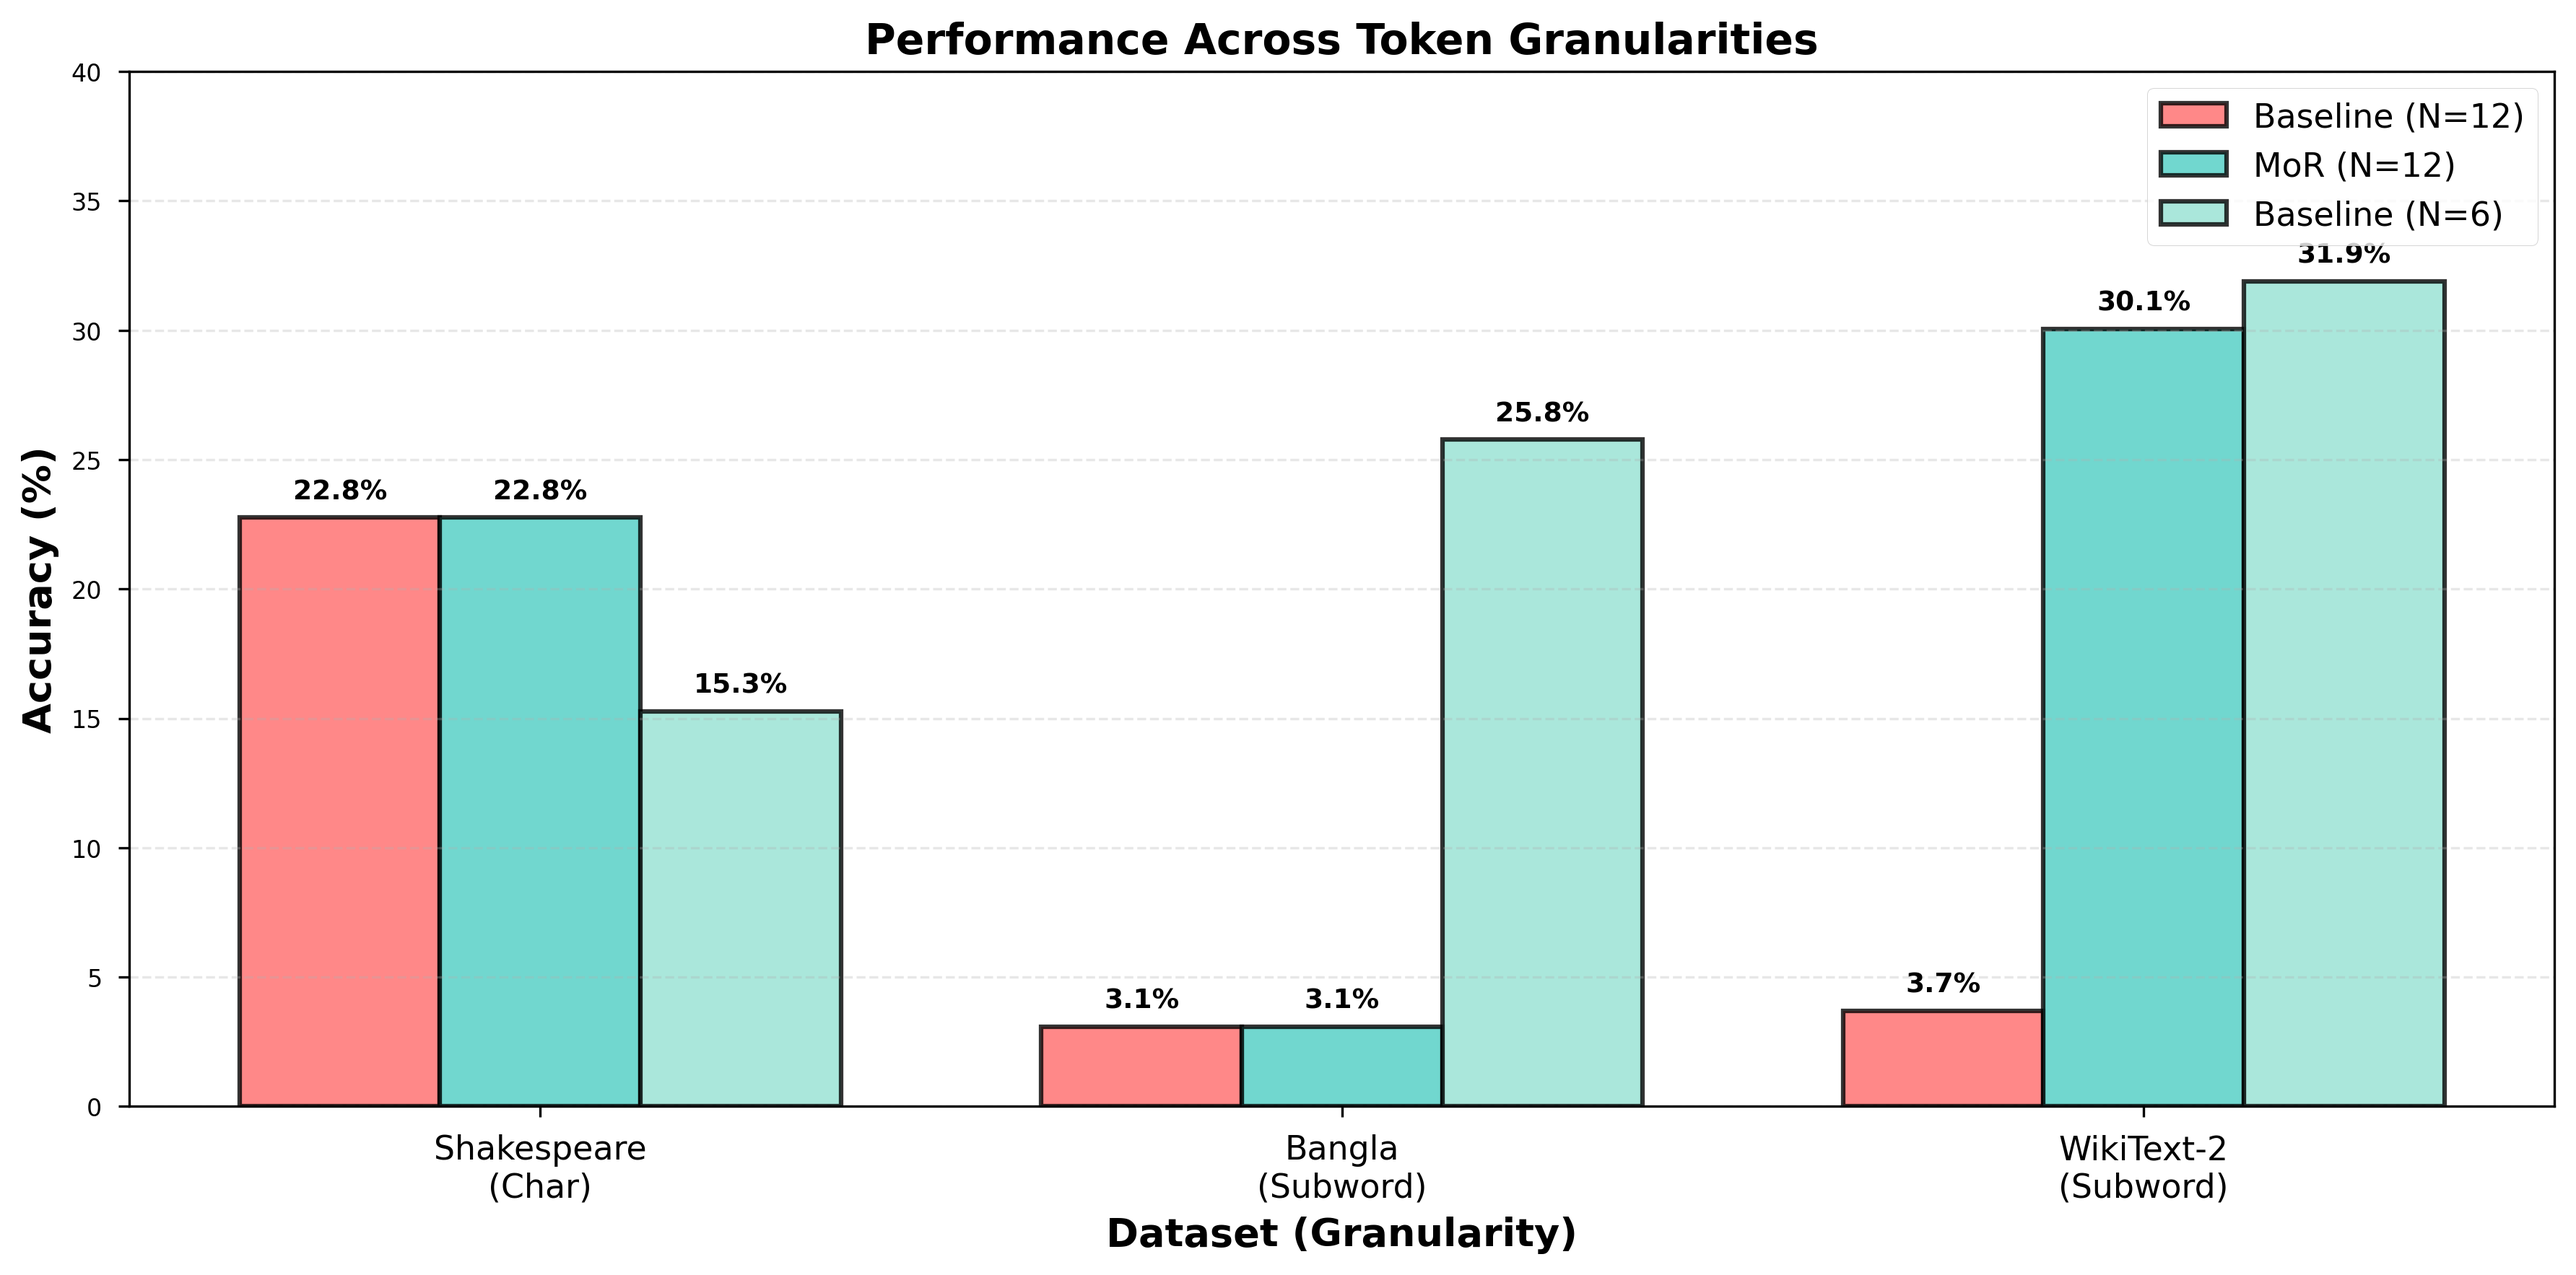
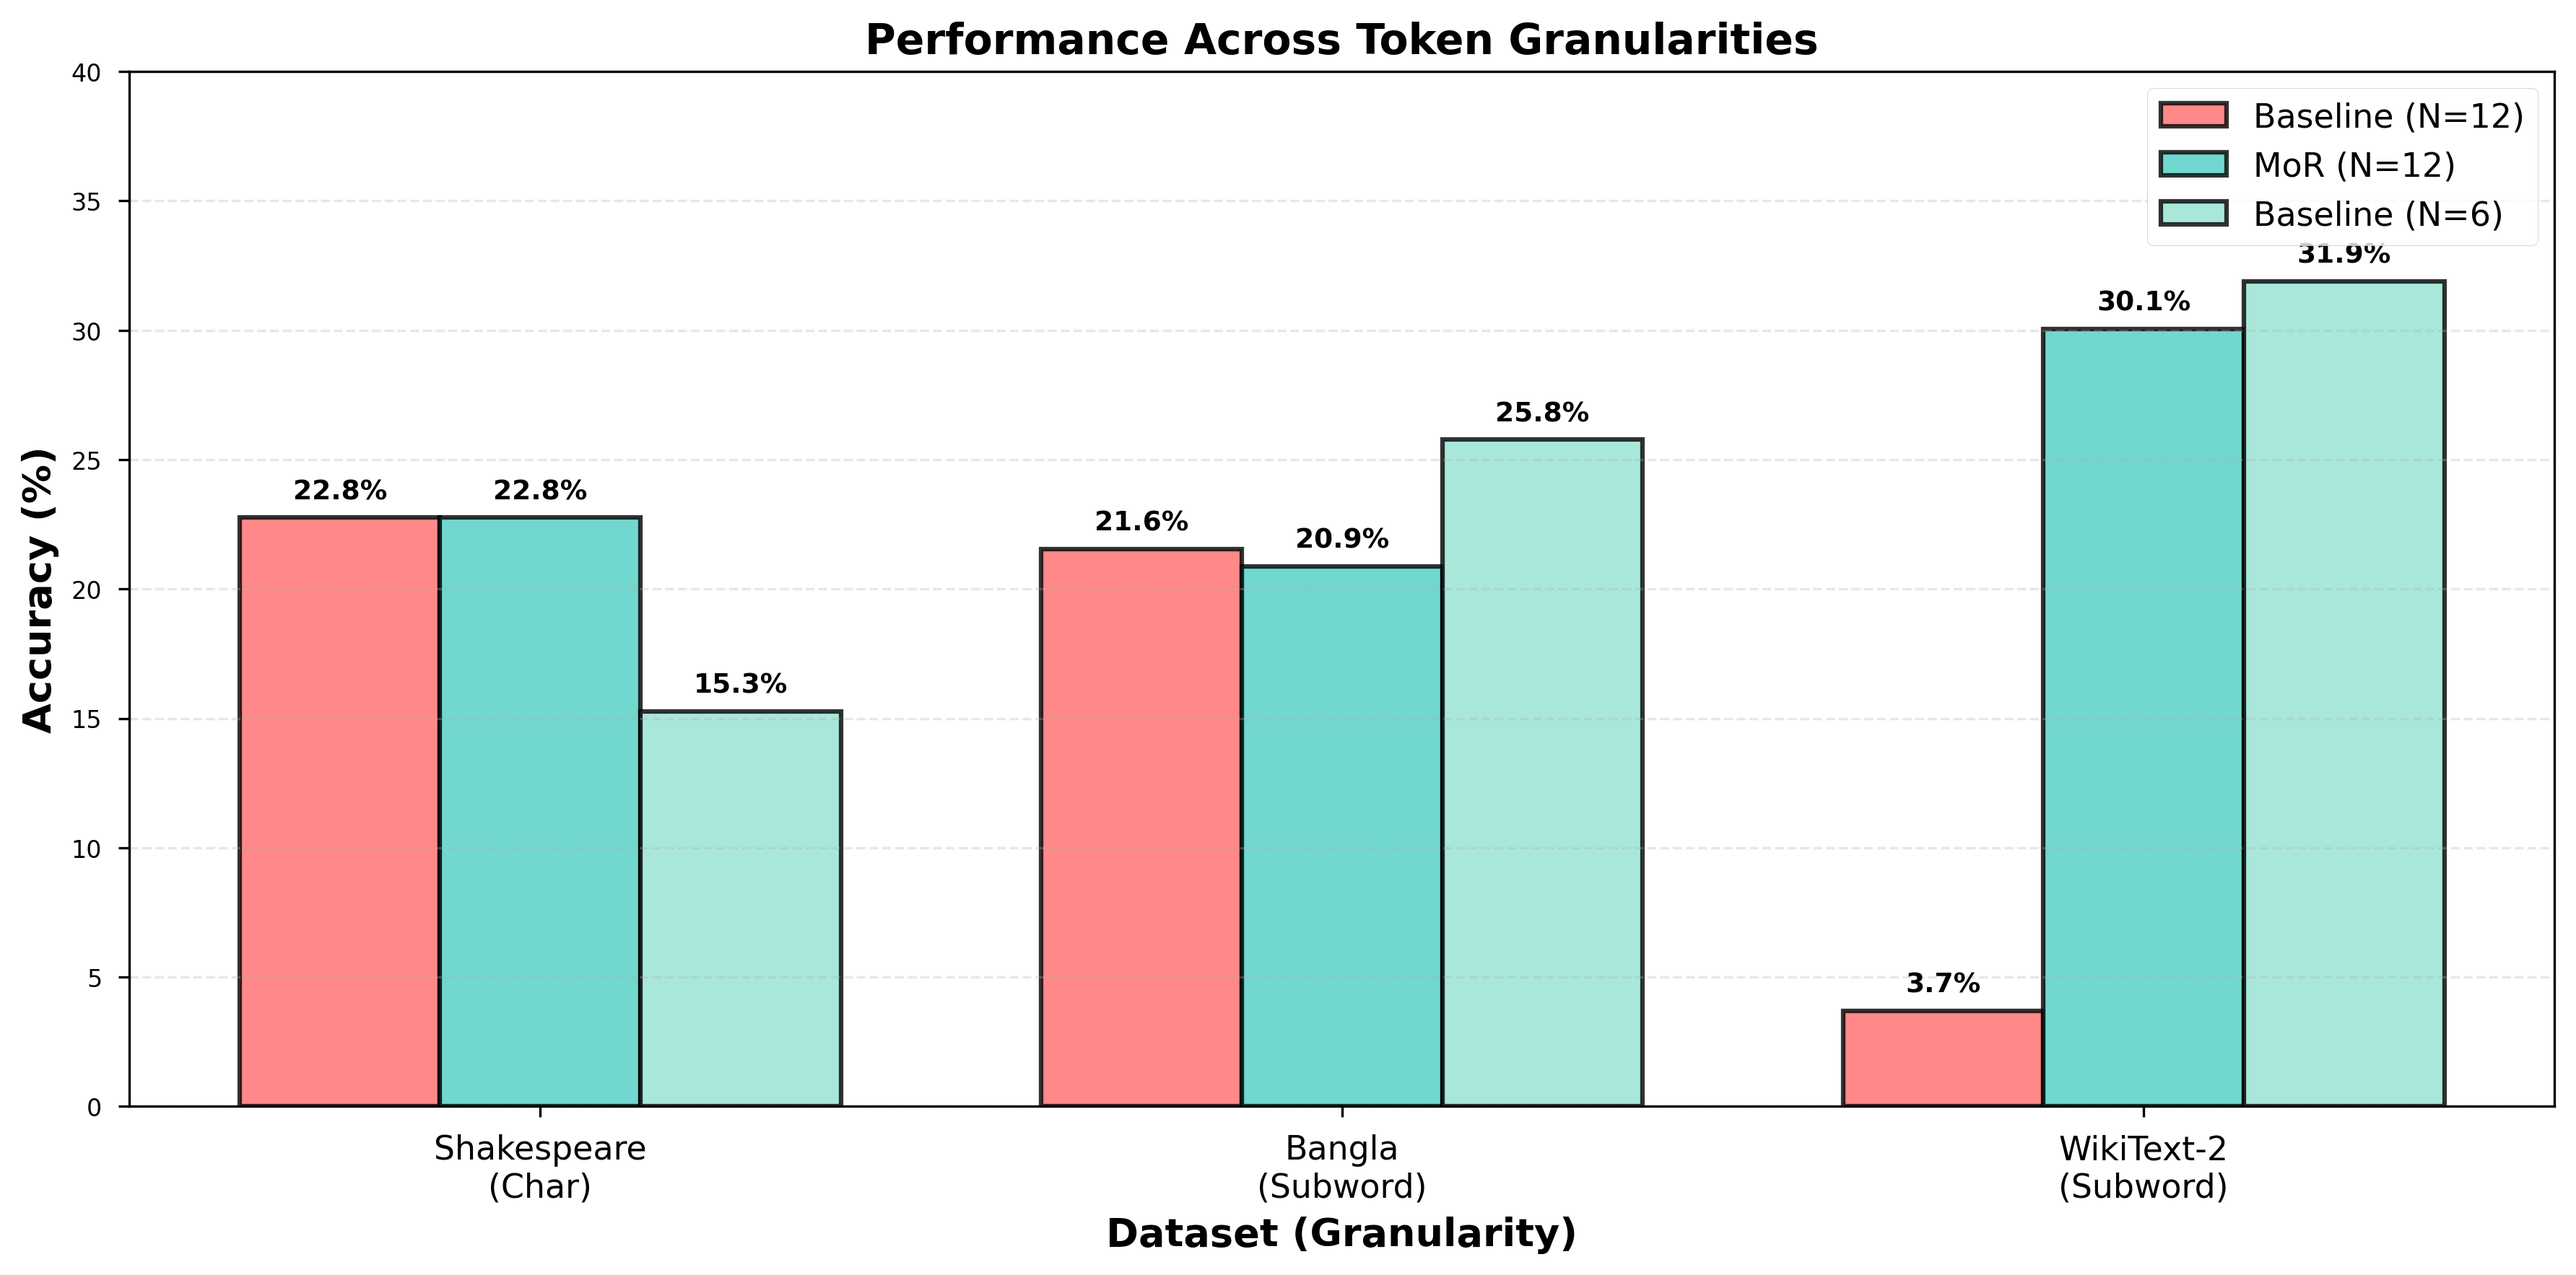
up

Changed region(s): [[0.4044, 0.4046, 0.56, 0.8093]]

diff --git a/Qpain_2026/generate_figures.py b/Qpain_2026/generate_figures.py
@@ -8,7 +8,8 @@ plt.style.use('seaborn-v0_8-paper')
 sns.set_palette("husl")
 
 # Create figures directory
-figures_dir = Path('figures')
+script_dir = Path(__file__).parent
+figures_dir = script_dir / 'figures'
 figures_dir.mkdir(exist_ok=True)
 
 # ============================================================================
@@ -112,8 +113,8 @@ x = np.arange(len(datasets))
 width = 0.25
 
 # Data for each experiment type
-baseline_n12 = [22.76, 3.09, 3.69]
-mor_n12 = [22.76, 3.09, 30.06]
+baseline_n12 = [22.76, 21.55, 3.69]
+mor_n12 = [22.76, 20.87, 30.06]
 baseline_n6 = [15.27, 25.77, 31.89]
 
 bars1 = ax.bar(x - width, baseline_n12, width, label='Baseline (N=12)', 
@@ -156,6 +157,8 @@ data_points = [
     (5.89, 49.67, 'MoR N=12 E≈6\n(Shakespeare)', '#4ECDC4', 'D'),
     (12.00, 3.69, 'Baseline N=12\n(WikiText)', '#FF6B6B', 'o'),
     (8.13, 30.06, 'MoR N=12\n(WikiText)', '#4ECDC4', 's'),
+    (12.00, 21.55, 'Baseline N=12\n(Bangla)', '#FF6B6B', 'v'),
+    (8.15, 20.87, 'MoR N=12\n(Bangla)', '#4ECDC4', 'X'),
 ]
 
 for depth, acc, label, color, marker in data_points:
